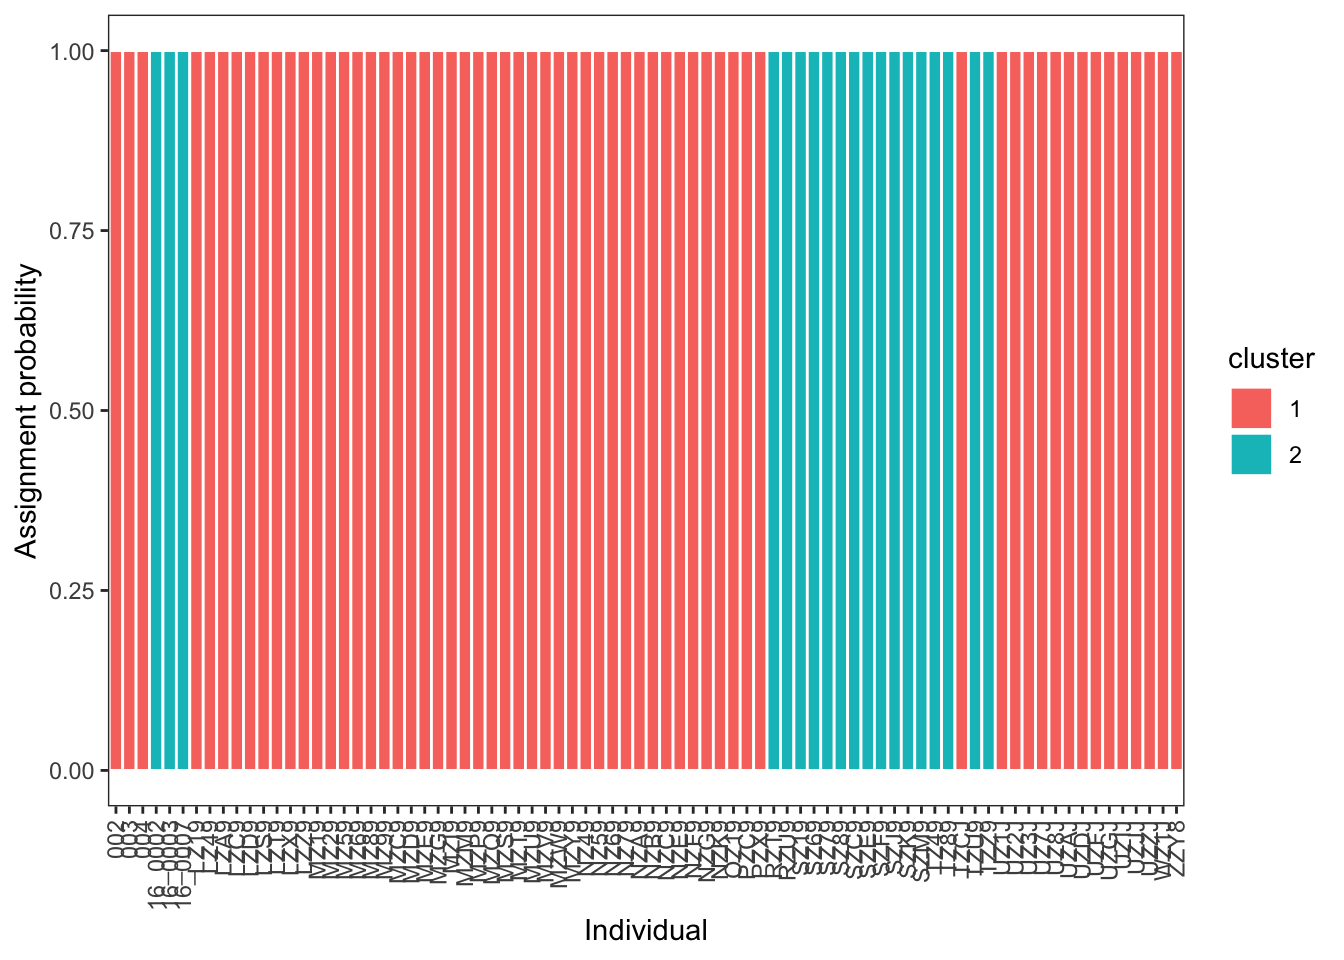
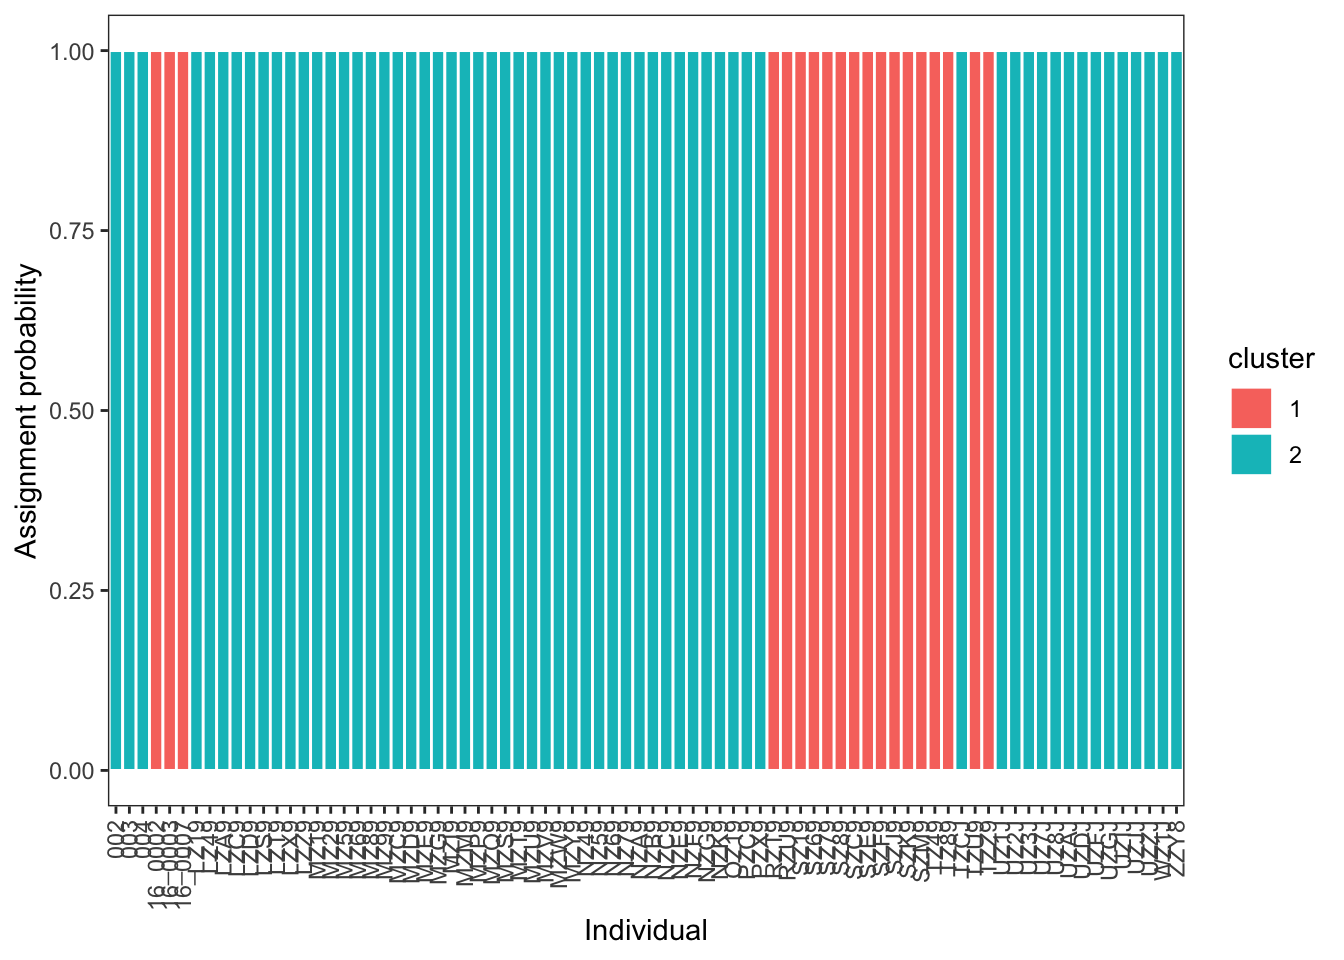
typo

diff --git a/docs/structure.html b/docs/structure.html
@@ -429,25 +429,25 @@ NULL
 
 $grp
     002     003     004 16_0002 16_0003 16_0007    LZ19    LZ49    LZA9    LZC9 
-      1       1       1       2       2       2       1       1       1       1 
+      2       2       2       1       1       1       2       2       2       2 
    LZD9    LZS9    LZT9    LZX9    LZZ9    MZ19    MZ29    MZ59    MZ69    MZ89 
-      1       1       1       1       1       1       1       1       1       1 
-   MZ99    MZC9    MZD9    MZE9    MZG9    MZI9    MZM9    MZP9    MZQ9    MZS9 
-      1       1       1       1       1       1       1       1       1       1 
-   MZT9    MZU9    MZV9    MZW9    MZY9    NZ49    NZ59    NZ69    NZ79    NZA9 
-      1       1       1       1       1       1       1       1       1       1 
-   NZB9    NZC9    NZE9    NZF9    NZG9    NZK9    OZ19    PZC9    PZX9    RZT9 
-      1       1       1       1       1       1       1       1       1       2 
-   RZU9    SZ19    SZ69    SZ79    SZ89    SZC9    SZE9    SZF9    SZJ9    SZK9 
       2       2       2       2       2       2       2       2       2       2 
-   SZM9    TZ49    TZ89    TZCJ    TZU9    TZZ9    UZ1J    UZ2J    UZ3J    UZ7J 
-      2       2       2       1       2       2       1       1       1       1 
-   UZ8J    UZAJ    UZDJ    UZFJ    UZGJ    UZIJ    UZJJ    UZZJ    WZ1J    ZZY8 
+   MZ99    MZC9    MZD9    MZE9    MZG9    MZI9    MZM9    MZP9    MZQ9    MZS9 
+      2       2       2       2       2       2       2       2       2       2 
+   MZT9    MZU9    MZV9    MZW9    MZY9    NZ49    NZ59    NZ69    NZ79    NZA9 
+      2       2       2       2       2       2       2       2       2       2 
+   NZB9    NZC9    NZE9    NZF9    NZG9    NZK9    OZ19    PZC9    PZX9    RZT9 
+      2       2       2       2       2       2       2       2       2       1 
+   RZU9    SZ19    SZ69    SZ79    SZ89    SZC9    SZE9    SZF9    SZJ9    SZK9 
       1       1       1       1       1       1       1       1       1       1 
+   SZM9    TZ49    TZ89    TZCJ    TZU9    TZZ9    UZ1J    UZ2J    UZ3J    UZ7J 
+      1       1       1       2       1       1       2       2       2       2 
+   UZ8J    UZAJ    UZDJ    UZFJ    UZGJ    UZIJ    UZJJ    UZZJ    WZ1J    ZZY8 
+      2       2       2       2       2       2       2       2       2       2 
 Levels: 1 2
 
 $size
-[1] 61 19</code></pre>
+[1] 19 61</code></pre>
 </div>
 </div>
 <p>We can visualize these clusters with a simply color aesthetic, which gives you unsurprising individual assignment:</p>
@@ -514,16 +514,16 @@ $eig (eigenvalues): 2986  vector    length content
 <pre><code># A tibble: 160 × 3
    sample  cluster ancestry
    &lt;chr&gt;   &lt;chr&gt;      &lt;dbl&gt;
- 1 002     1       1   e+ 0
- 2 002     2       7.57e-39
- 3 003     1       1   e+ 0
- 4 003     2       1.04e-49
- 5 004     1       1   e+ 0
- 6 004     2       1.54e-46
- 7 16_0002 1       1.05e-47
- 8 16_0002 2       1   e+ 0
- 9 16_0003 1       2.19e-50
-10 16_0003 2       1   e+ 0
+ 1 002     1       7.57e-39
+ 2 002     2       1   e+ 0
+ 3 003     1       1.04e-49
+ 4 003     2       1   e+ 0
+ 5 004     1       1.54e-46
+ 6 004     2       1   e+ 0
+ 7 16_0002 1       1   e+ 0
+ 8 16_0002 2       1.05e-47
+ 9 16_0003 1       1   e+ 0
+10 16_0003 2       2.19e-50
 # ℹ 150 more rows</code></pre>
 </div>
 </div>
@@ -560,9 +560,9 @@ $eig (eigenvalues): 2986  vector    length content
 <span id="cb29-11"><a href="#cb29-11" aria-hidden="true" tabindex="-1"></a>grp_auto<span class="sc">$</span>Kstat</span></code></pre></div><button title="Copy to Clipboard" class="code-copy-button"><i class="bi"></i></button></div>
 <div class="cell-output cell-output-stdout">
 <pre><code>     K=1      K=2      K=3      K=4      K=5      K=6      K=7      K=8 
-365.2108 365.0958 366.3905 367.9647 369.9612 371.9081 373.8672 376.0523 
+365.2108 365.0958 366.3905 368.4736 369.9612 371.9741 373.7892 376.0147 
      K=9     K=10 
-377.9752 379.7704 </code></pre>
+378.0095 380.0070 </code></pre>
 </div>
 <div class="code-copy-outer-scaffold"><div class="sourceCode cell-code" id="cb31"><pre class="sourceCode r code-with-copy"><code class="sourceCode r"><span id="cb31-1"><a href="#cb31-1" aria-hidden="true" tabindex="-1"></a><span class="co"># plot!</span></span>
 <span id="cb31-2"><a href="#cb31-2" aria-hidden="true" tabindex="-1"></a><span class="fu">plot</span>(</span>

diff --git a/docs/tree.html b/docs/tree.html
@@ -194,7 +194,7 @@ pre > code.sourceCode > span > a:first-child::before { text-decoration: underlin
 <span id="cb6-2"><a href="#cb6-2" aria-hidden="true" tabindex="-1"></a><span class="fu">library</span>(ape)</span>
 <span id="cb6-3"><a href="#cb6-3" aria-hidden="true" tabindex="-1"></a><span class="fu">library</span>(readr)</span></code></pre></div><button title="Copy to Clipboard" class="code-copy-button"><i class="bi"></i></button></div>
 </div>
-<p>We use the <code>read.tree()</code> function to</p>
+<p>We use the <code>read.tree()</code> function to load the consensus phylogeny output by <code>IQTREE</code>:</p>
 <div class="cell">
 <div class="code-copy-outer-scaffold"><div class="sourceCode cell-code" id="cb7"><pre class="sourceCode r code-with-copy"><code class="sourceCode r"><span id="cb7-1"><a href="#cb7-1" aria-hidden="true" tabindex="-1"></a><span class="co"># read tree</span></span>
 <span id="cb7-2"><a href="#cb7-2" aria-hidden="true" tabindex="-1"></a>tree <span class="ot">&lt;-</span> <span class="fu">read.tree</span>(<span class="st">"data/lemurs.snps.min4.phy.contree"</span>)</span>

diff --git a/docs/scans.html b/docs/scans.html
@@ -210,7 +210,7 @@ window.Quarto = {
 Summary:
 
     - input file:               data/salvelinus.vcf
-    - output file:              /var/folders/1j/bh_1nty95dg1md7_3hxwkkww65f186/T//Rtmp88AAVv/file15fcd224160b0.pcadapt
+    - output file:              /var/folders/1j/bh_1nty95dg1md7_3hxwkkww65f186/T//RtmpB7SuHy/file1645d4912b94c.pcadapt
 
     - number of individuals detected:   267
     - number of loci detected:      24337
